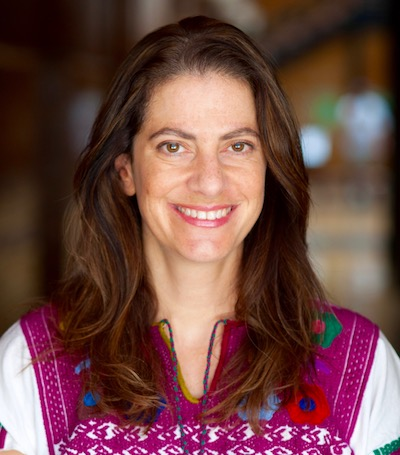
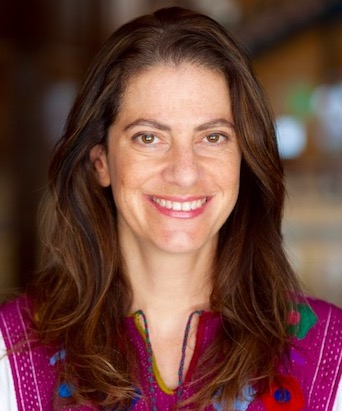
cropped headshot

diff --git a/index.html b/index.html
@@ -1,0 +1,33 @@
+<!DOCTYPE html>
+<html>
+<head>
+	<title>MH Portfolio</title>
+</head>
+<body>
+
+<header>
+
+	<h1>Meredith Hazan</h1>
+
+	<a href="*">About</a>
+
+	<a href="portfolio.html">Portfolio</a>
+
+	<a href="contact.html">Contact</a>
+
+</header>
+
+<section>
+
+	<h1>About Me</h1>
+
+	<img src="assets/images/Meredith_Sept16_6312.jpg" alt="This is Meredith">
+
+	<p>
+		
+	</p>
+
+</section>
+
+</body>
+</html>
